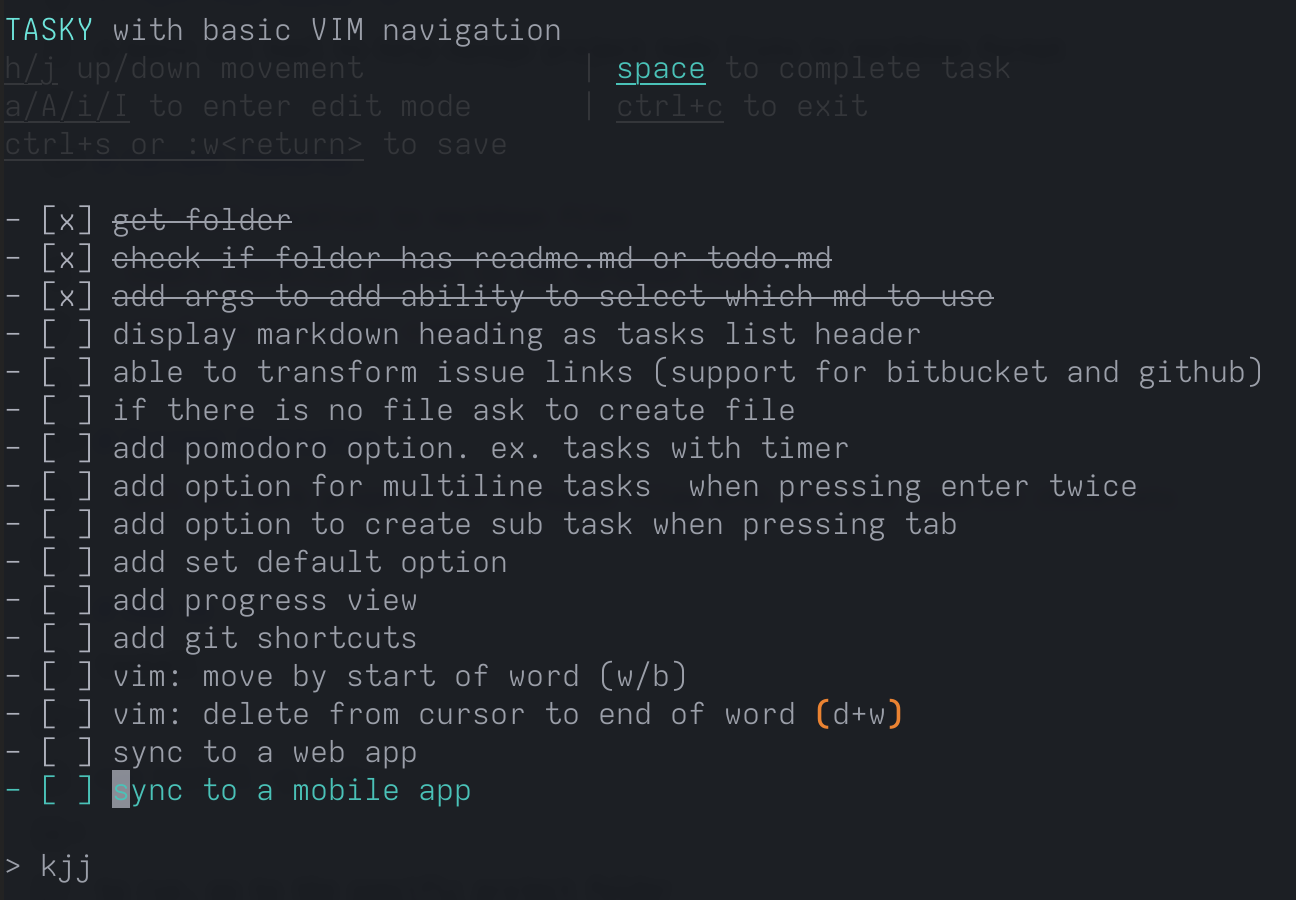
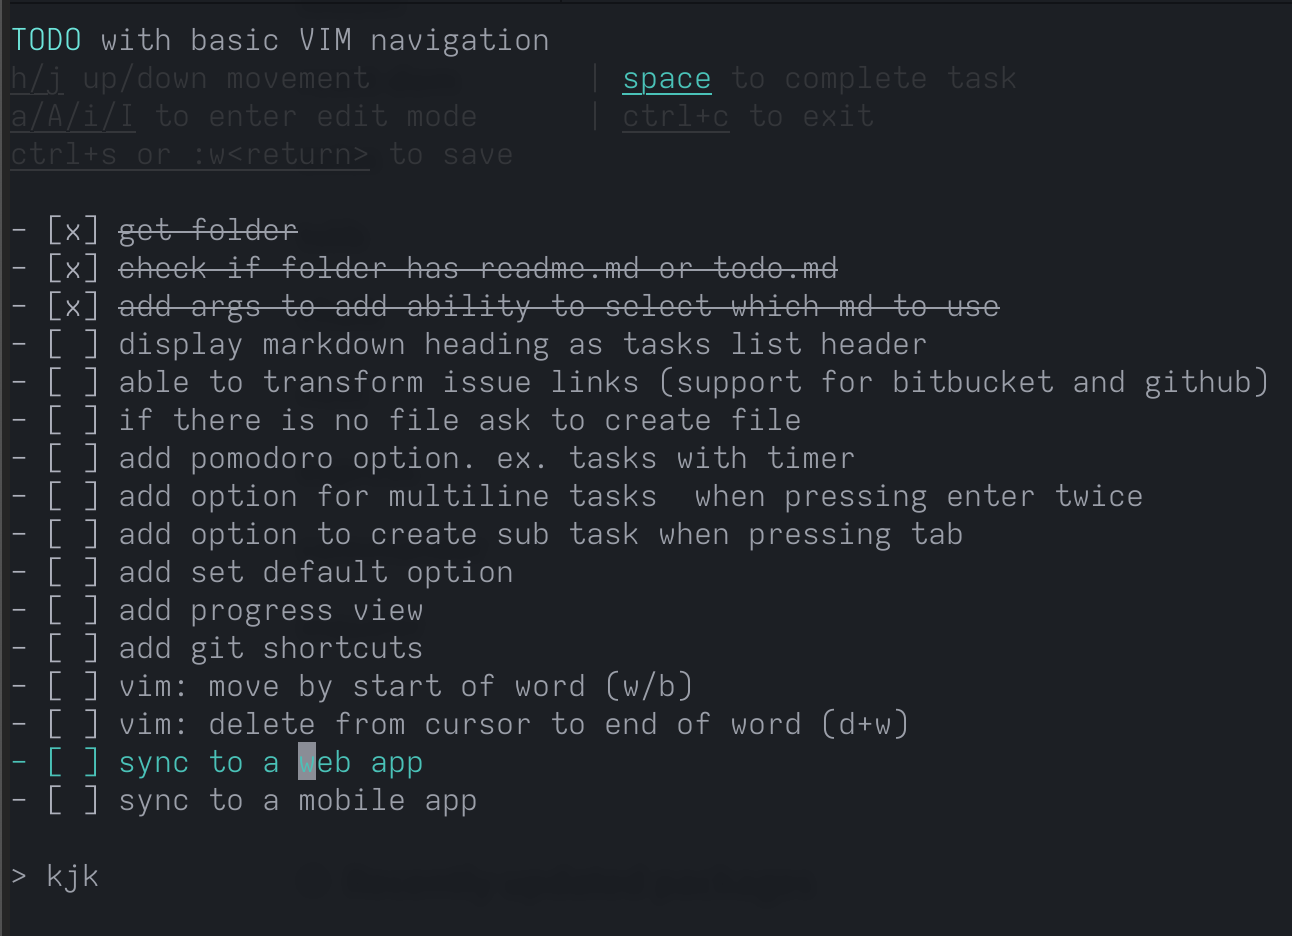
updated package name, readme and screenshot

diff --git a/dist/index.js b/dist/index.js
@@ -73,7 +73,7 @@ for (var i = 0; i < process.argv.length; i++) {
 var lines = [];
 var preLine = {
     title: "DO", description: "Shortcuts",
-    render: ansi_colors_1.default.white("".concat(ansi_colors_1.default.cyanBright("TASKY"), " with basic VIM navigation\n").concat(ansi_colors_1.default.gray("".concat(ansi_colors_1.default.underline("h/j"), " up/down movement \t\t| ").concat(ansi_colors_1.default.underline.cyan("space"), " to complete task\n").concat(ansi_colors_1.default.underline("a/A/i/I"), " to enter edit mode \t| ").concat(ansi_colors_1.default.underline("ctrl+c"), " to exit\n").concat(ansi_colors_1.default.underline("ctrl+s or :w<return>"), " to save\n"))))
+    render: ansi_colors_1.default.white("".concat(ansi_colors_1.default.cyanBright("TODO"), " with basic VIM navigation\n").concat(ansi_colors_1.default.gray("".concat(ansi_colors_1.default.underline("h/j"), " up/down movement \t\t| ").concat(ansi_colors_1.default.underline.cyan("space"), " to complete task\n").concat(ansi_colors_1.default.underline("a/A/i/I"), " to enter edit mode \t| ").concat(ansi_colors_1.default.underline("ctrl+c"), " to exit\n").concat(ansi_colors_1.default.underline("ctrl+s or :w<return>"), " to save\n"))))
 };
 var postLine = {
     title: ""

diff --git a/index.ts b/index.ts
@@ -33,7 +33,7 @@ let lines: Line[] = [
 ];
 const preLine: Line = {
   title: "DO", description: "Shortcuts",
-  render: c.white(`${c.cyanBright("TASKY")} with basic VIM navigation
+  render: c.white(`${c.cyanBright("TODO")} with basic VIM navigation
 ${c.gray(`${c.underline("h/j")} up/down movement \t\t| ${c.underline.cyan("space")} to complete task
 ${c.underline("a/A/i/I")} to enter edit mode \t| ${c.underline("ctrl+c")} to exit
 ${c.underline("ctrl+s or :w<return>")} to save

diff --git a/readme.md b/readme.md
@@ -1,7 +1,7 @@
-# TASKY with basic vim
+# VIMDO with basic vim
 a basic cli tool to help manage project todo lists in markdown format
 
-![TASKY screenshot](https://raw.githubusercontent.com/danielvtan/tasky/main/screenshots/screenshot.png)
+![VIMDO screenshot](https://raw.githubusercontent.com/danielvtan/vimdo/main/screenshots/screenshot.png)
 
 
 # Current features
@@ -12,17 +12,17 @@ a basic cli tool to help manage project todo lists in markdown format
 # How to use
 install
 ```
-npm install -g tasky
+npm install -g vimdo
 ````
 to run, go to the specific project folder
 ```
-tasky
+vimdo
 ````
-running tasky without optional file argument will try to look for todo.md and readme.md files (respectively).
-if both files are not present, tasky will start in draft mode and will create a todo.md file on save
+running vimdo without optional file argument will try to look for todo.md and readme.md files (respectively).
+if both files are not present, vimdo will start in draft mode and will create a todo.md file on save
 to select specific .md file, add the filename as optional argument
 ```
-tasky filename.md
+vimdo filename.md
 ```
 
 # TODO features
@@ -45,3 +45,4 @@ tasky filename.md
 
 # Current limitation 
 - will not work properly for markdown files with multiple separate checklists
+
